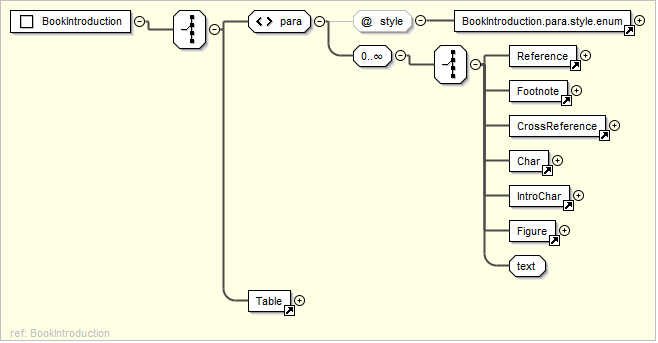
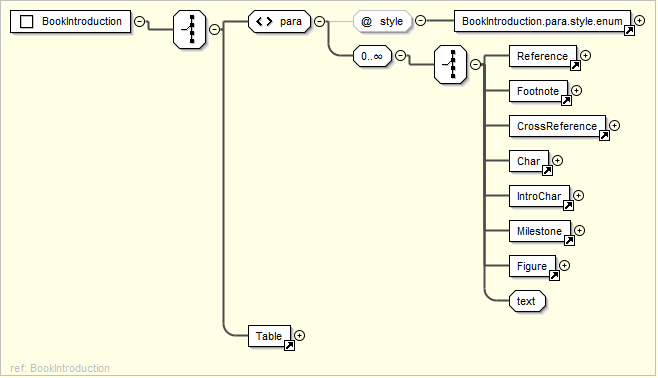
Updates to Structure docs section to show scripture and periph content

Changed region(s): [[0.0, 0.0, 1.0, 1.0], [0.3343, 0.8455, 0.4863, 0.9329]]

diff --git a/docs/structure.rst b/docs/structure.rst
@@ -138,7 +138,7 @@ Book Introduction
 An optional collection of :ref:`para <usx-element_para>` or :ref:`table <usx-element_table>` elements for book introductions.
 
 * Valid @style types (alphabetical): :ref:`ib <usx-parastyle_ib>`, :ref:`ie <usx-parastyle_ie>`, :ref:`iex <usx-parastyle_iex>`, :ref:`ili <usx-parastyle_ili>`, :ref:`ili1 <usx-parastyle_ili>`, :ref:`ili2 <usx-parastyle_ili>`, :ref:`im <usx-parastyle_im>`, :ref:`imi <usx-parastyle_im>`, :ref:`imq <usx-parastyle_imq>`, :ref:`imt <usx-parastyle_imt>`, :ref:`imt1 <usx-parastyle_imt>`, :ref:`imt2 <usx-parastyle_imt>`, :ref:`imt3 <usx-parastyle_imt>`, :ref:`imt4 <usx-parastyle_imt>`, :ref:`imte <usx-parastyle_imte>`, :ref:`imte1 <usx-parastyle_imte>`, :ref:`imte2 <usx-parastyle_imte>`, :ref:`io <usx-parastyle_io>`, :ref:`io1 <usx-parastyle_io>`, :ref:`io2 <usx-parastyle_io>`, :ref:`io3 <usx-parastyle_io>`, :ref:`io4 <usx-parastyle_io>`, :ref:`iot <usx-parastyle_iot>`, :ref:`ip <usx-parastyle_ip>`, :ref:`ipi <usx-parastyle_ipi>`, :ref:`ipq <usx-parastyle_ipq>`, :ref:`ipr <usx-parastyle_ipr>`, :ref:`iq <usx-parastyle_iq>`, :ref:`iq1 <usx-parastyle_iq>`, :ref:`iq2 <usx-parastyle_iq>`, :ref:`iq3 <usx-parastyle_iq>`, :ref:`is <usx-parastyle_is>`, :ref:`is1 <usx-parastyle_is>`, :ref:`is2 <usx-parastyle_is>`, rem
-* Optional collection of one or more child elements: :ref:`note <usx-element_note>` (@style f, fe), :ref:`char <usx-element_char>`, :ref:`figure <usx-element_figure>`, :ref:`optbreak <usx-element_optbreak>`
+* Optional collection of one or more child elements: :ref:`note <usx-element_note>` (@style f, fe, x), :ref:`ref <usx-element_ref>`, :ref:`char <usx-element_char>`, :ref:`ms <usx-element_ms>`, :ref:`figure <usx-element_figure>`
 
 -----
 
@@ -153,7 +153,7 @@ Book Introduction End Titles
 An optional collection of :ref:`para <usx-element_para>` elements for book titles occurring at the end of the book introduction.
 
 * Valid @style types (alphabetical): :ref:`imt <usx-parastyle_imt>`, :ref:`imt1 <usx-parastyle_imt>`, :ref:`imt2 <usx-parastyle_imt>`, :ref:`mt <usx-parastyle_mt>`, :ref:`mt1 <usx-parastyle_mt>`, :ref:`mt2 <usx-parastyle_mt>`, :ref:`mt3 <usx-parastyle_mt>`, :ref:`mt4 <usx-parastyle_mt>`
-* Optional collection of one or more child elements: :ref:`note <usx-element_note>` (@style f, fe), :ref:`char <usx-element_char>`, :ref:`figure <usx-element_para>`, :ref:`optbreak <usx-element_optbreak>`
+* Optional collection of one or more child elements: :ref:`note <usx-element_note>` (@style f, fe, x), :ref:`ref <usx-element_ref>`, :ref:`char <usx-element_char>`, :ref:`ms <usx-element_ms>`, :ref:`optbreak <usx-element_optbreak>`
 
 -----
 
@@ -179,6 +179,12 @@ Chapter Content
 
 .. image:: images/usx-div_ChapterContent.png
 
+An optional collection of :ref:`chapter <usx-element_chapter>`, :ref:`para <usx-element_para>`, :ref:`table <usx-element_table>`, or :ref:`sidebar <usx-element_sidebar>` elements for the main content of a scripture book.
+
+* Valid :ref:`para <usx-element_para>` @style types (alphabetical): :ref:`imt1 <usx-parastyle_imt>`, :ref:`b <usx-parastyle_b>`, :ref:`cd <usx-parastyle_cd>`, :ref:`cl <usx-parastyle_cl>`, :ref:`cls <usx-parastyle_cls>`, cp, :ref:`d <usx-parastyle_d>`, :ref:`iex <usx-parastyle_iex>`, :ref:`ip <usx-parastyle_ip>`, k1, k2, :ref:`lf <usx-parastyle_lf>`, :ref:`lh <usx-parastyle_lh>`, :ref:`li <usx-parastyle_li>`, :ref:`li1 <usx-parastyle_li>`, :ref:`li2 <usx-parastyle_li>`, :ref:`li3 <usx-parastyle_li>`, :ref:`li4 <usx-parastyle_li>`, :ref:`lim <usx-parastyle_lim>`, :ref:`lim1 <usx-parastyle_lim>`, :ref:`lim2 <usx-parastyle_lim>`, :ref:`lim3 <usx-parastyle_lim>`, :ref:`lim4 <usx-parastyle_lim>`, :ref:`lit <usx-parastyle_lit>`, :ref:`m <usx-parastyle_m>`, :ref:`mi <usx-parastyle_mi>`, :ref:`mr <usx-parastyle_mr>`, :ref:`ms <usx-parastyle_ms>`, :ref:`ms1 <usx-parastyle_ms>`, :ref:`ms2 <usx-parastyle_ms>`, :ref:`ms3 <usx-parastyle_ms>`, :ref:`mte <usx-parastyle_mte>`, :ref:`mte1 <usx-parastyle_mte>`, :ref:`mte2 <usx-parastyle_mte>`, :ref:`p <usx-parastyle_p>`, :ref:`p <usx-parastyle_p>`, :ref:`p1 <usx-parastyle_p>`, :ref:`p2 <usx-parastyle_p>`, :ref:`pc <usx-parastyle_pc>`, :ref:`pi <usx-parastyle_pi>`, :ref:`pi1 <usx-parastyle_pi>`, :ref:`pi2 <usx-parastyle_pi>`, :ref:`pi3 <usx-parastyle_pi>`, :ref:`pm <usx-parastyle_pm>`, :ref:`pmc <usx-parastyle_pmc>`, :ref:`pmo <usx-parastyle_pmo>`, :ref:`pmr <usx-parastyle_pmr>`, :ref:`po <usx-parastyle_po>`, :ref:`q <usx-parastyle_q>`, :ref:`q1 <usx-parastyle_q>`, :ref:`q2 <usx-parastyle_q>`, :ref:`q3 <usx-parastyle_q>`, :ref:`q4 <usx-parastyle_q>`, :ref:`qa <usx-parastyle_qa>`, :ref:`qc <usx-parastyle_qc>`, :ref:`qd <usx-parastyle_qd>`, :ref:`qm <usx-parastyle_qm>`, :ref:`qm1 <usx-parastyle_qm>`, :ref:`qm2 <usx-parastyle_qm>`, :ref:`qm3 <usx-parastyle_qm>`, :ref:`qr <usx-parastyle_qr>`, :ref:`r <usx-parastyle_r>`, rem, restore, :ref:`s <usx-parastyle_s>`, :ref:`s1 <usx-parastyle_s>`, :ref:`s2 <usx-parastyle_s>`, :ref:`s3 <usx-parastyle_s>`, :ref:`s4 <usx-parastyle_s>`, :ref:`sd <usx-parastyle_sd>`, :ref:`sd1 <usx-parastyle_sd>`, :ref:`sd2 <usx-parastyle_sd>`, :ref:`sd3 <usx-parastyle_sd>`, :ref:`sd4 <usx-parastyle_sd>`, :ref:`sp <usx-parastyle_sp>`, :ref:`sr <usx-parastyle_sr>`
+
+* Optional collection of one or more child elements: :ref:`note <usx-element_note>` (@style f, fe, ef, x, ex), :ref:`ref <usx-element_ref>`, :ref:`char <usx-element_char>`, :ref:`ms <usx-element_ms>`, :ref:`figure <usx-element_figure>`, :ref:`verse <usx-element_verse>`, :ref:`optbreak <usx-element_optbreak>`
+
 -----
 
 .. _usx-div_peripheralContent:
@@ -187,3 +193,9 @@ Peripheral Content
 ------------------
 
 .. image:: images/usx-div_PeripheralContent.png
+
+An optional collection of :ref:`chapter <usx-element_chapter>`, :ref:`para <usx-element_para>`, :ref:`table <usx-element_table>`, or :ref:`sidebar <usx-element_sidebar>` elements for the main content of a scripture book.
+
+* Valid :ref:`para <usx-element_para>` @style types (alphabetical): :ref:`imt1 <usx-parastyle_imt>`, :ref:`b <usx-parastyle_b>`, :ref:`cd <usx-parastyle_cd>`, :ref:`cl <usx-parastyle_cl>`, :ref:`cls <usx-parastyle_cls>`, cp, :ref:`d <usx-parastyle_d>`, :ref:`iex <usx-parastyle_iex>`, :ref:`ip <usx-parastyle_ip>`, k1, k2, :ref:`lf <usx-parastyle_lf>`, :ref:`lh <usx-parastyle_lh>`, :ref:`li <usx-parastyle_li>`, :ref:`li1 <usx-parastyle_li>`, :ref:`li2 <usx-parastyle_li>`, :ref:`li3 <usx-parastyle_li>`, :ref:`li4 <usx-parastyle_li>`, :ref:`lim <usx-parastyle_lim>`, :ref:`lim1 <usx-parastyle_lim>`, :ref:`lim2 <usx-parastyle_lim>`, :ref:`lim3 <usx-parastyle_lim>`, :ref:`lim4 <usx-parastyle_lim>`, :ref:`lit <usx-parastyle_lit>`, :ref:`m <usx-parastyle_m>`, :ref:`mi <usx-parastyle_mi>`, :ref:`mr <usx-parastyle_mr>`, :ref:`ms <usx-parastyle_ms>`, :ref:`ms1 <usx-parastyle_ms>`, :ref:`ms2 <usx-parastyle_ms>`, :ref:`ms3 <usx-parastyle_ms>`, :ref:`mte <usx-parastyle_mte>`, :ref:`mte1 <usx-parastyle_mte>`, :ref:`mte2 <usx-parastyle_mte>`, :ref:`p <usx-parastyle_p>`, :ref:`p <usx-parastyle_p>`, :ref:`p1 <usx-parastyle_p>`, :ref:`p2 <usx-parastyle_p>`, :ref:`pc <usx-parastyle_pc>`, :ref:`pi <usx-parastyle_pi>`, :ref:`pi1 <usx-parastyle_pi>`, :ref:`pi2 <usx-parastyle_pi>`, :ref:`pi3 <usx-parastyle_pi>`, :ref:`pm <usx-parastyle_pm>`, :ref:`pmc <usx-parastyle_pmc>`, :ref:`pmo <usx-parastyle_pmo>`, :ref:`pmr <usx-parastyle_pmr>`, :ref:`po <usx-parastyle_po>`, :ref:`q <usx-parastyle_q>`, :ref:`q1 <usx-parastyle_q>`, :ref:`q2 <usx-parastyle_q>`, :ref:`q3 <usx-parastyle_q>`, :ref:`q4 <usx-parastyle_q>`, :ref:`qa <usx-parastyle_qa>`, :ref:`qc <usx-parastyle_qc>`, :ref:`qd <usx-parastyle_qd>`, :ref:`qm <usx-parastyle_qm>`, :ref:`qm1 <usx-parastyle_qm>`, :ref:`qm2 <usx-parastyle_qm>`, :ref:`qm3 <usx-parastyle_qm>`, :ref:`qr <usx-parastyle_qr>`, :ref:`r <usx-parastyle_r>`, rem, restore, :ref:`s <usx-parastyle_s>`, :ref:`s1 <usx-parastyle_s>`, :ref:`s2 <usx-parastyle_s>`, :ref:`s3 <usx-parastyle_s>`, :ref:`s4 <usx-parastyle_s>`, :ref:`sd <usx-parastyle_sd>`, :ref:`sd1 <usx-parastyle_sd>`, :ref:`sd2 <usx-parastyle_sd>`, :ref:`sd3 <usx-parastyle_sd>`, :ref:`sd4 <usx-parastyle_sd>`, :ref:`sp <usx-parastyle_sp>`, :ref:`sr <usx-parastyle_sr>`
+
+* Optional collection of one or more child elements: :ref:`note <usx-element_note>` (@style f, fe, ef, x, ex), :ref:`ref <usx-element_ref>`, :ref:`char <usx-element_char>`, :ref:`ms <usx-element_ms>`, :ref:`figure <usx-element_figure>`, :ref:`verse <usx-element_verse>`, :ref:`optbreak <usx-element_optbreak>`

diff --git a/docs/msstyles.rst b/docs/msstyles.rst
@@ -49,14 +49,14 @@ qt#
 	:name: usx-msstyle_qt_example
 	
 	<para style="p"><verse number="11" style="v">Jesus stood before the Roman governor, 
-	    who questioned him. <ms style="qt1-s" id="MAT.27.11.a" who="Pilate"/>“Are you the 
-        king of the Jews?”<ms style="qt1-e" id="MAT.27.11.a"/> he asked.</para>
+		who questioned him. <ms style="qt1-s" id="MAT.27.11.a" who="Pilate"/>“Are you the 
+		king of the Jews?”<ms style="qt1-e" id="MAT.27.11.a"/> he asked.</para>
 	<para style="p"><ms style="qt1-s" id="MAT.27.11.b" who="Jesus"/>“So you say,”
-	    <ms style="qt1-e" id="MAT.27.11.1b"/> answered Jesus.
-	    <verse number="12" style="v"/>But he said nothing in response to the accusations of 
-        the chief priests and elders.</para>
+		<ms style="qt1-e" id="MAT.27.11.1b"/> answered Jesus.
+		<verse number="12" style="v"/>But he said nothing in response to the accusations of 
+		the chief priests and elders.</para>
 	<para style="p"><verse number="13" style="v"/>So Pilate said to him,
-	    <ms style="qt1-s" id="MAT.27.13.a" who="Pilate"/>“Don't you hear all these things 
-        they accuse you of?”<ms style="qt1-e" id="MAT.27.13.a"/></para>
+		<ms style="qt1-s" id="MAT.27.13.a" who="Pilate"/>“Don't you hear all these things 
+		they accuse you of?”<ms style="qt1-e" id="MAT.27.13.a"/></para>
 	<para style="p"><verse number="14" style="v"/>But Jesus refused to answer a single word, 
-	    with the result that the Governor was greatly surprised.</para>
+		with the result that the Governor was greatly surprised.</para>
